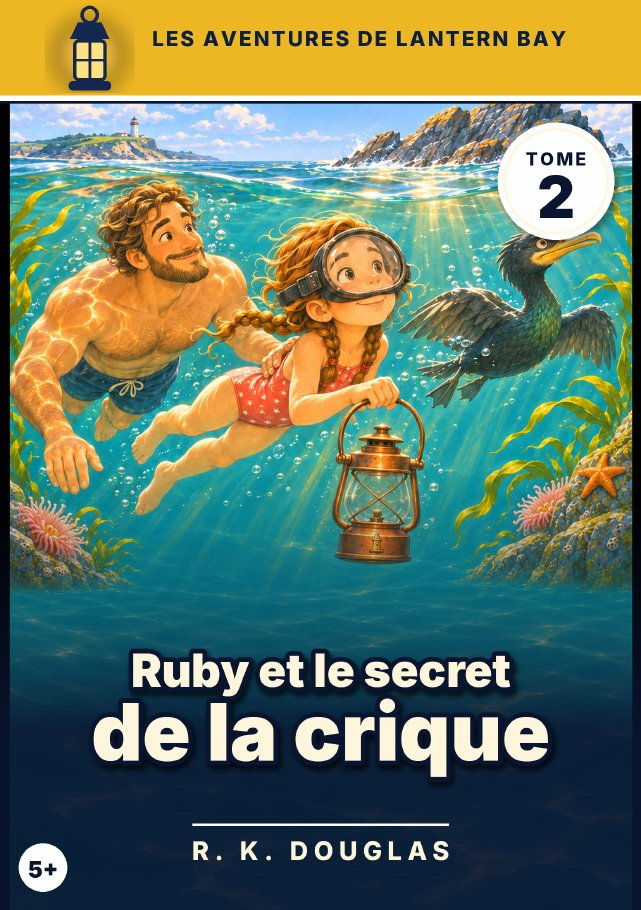
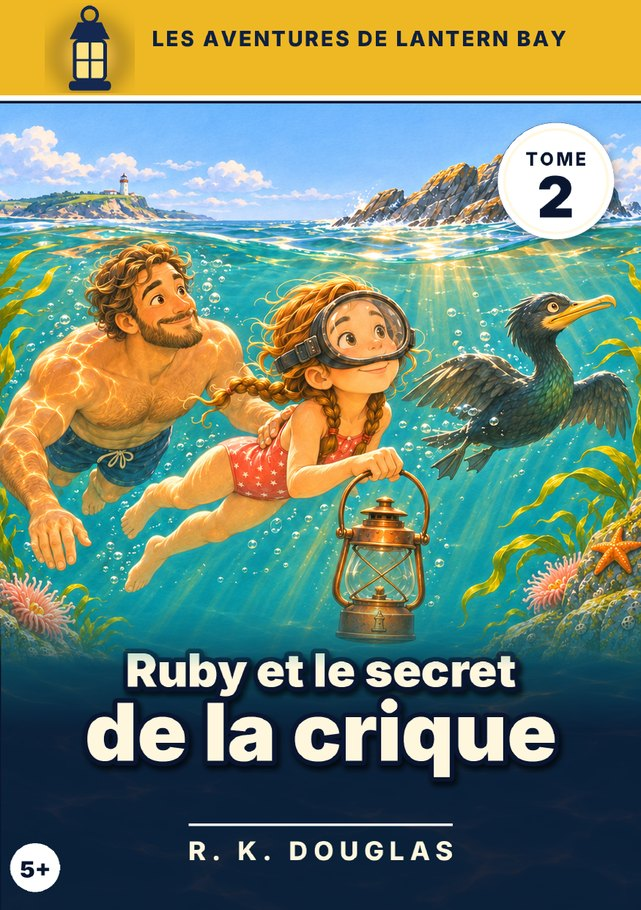
Actualiser le catalogue et quatre couvertures

diff --git a/index.html b/index.html
@@ -306,7 +306,7 @@ footer .wrap{display:flex;flex-wrap:wrap;justify-content:space-between;gap:8px 2
     contes: [
       {id:"contes-1", t:"La graine du dernier arbre", n:"Tome 1", img:"images/contes-t1.jpg",
        r:"À Sèche-Combe, tout est devenu gris. Élio, huit ans, reçoit une graine qui s'allume dans sa main. Pour sauver le village, il devra la porter jusqu'à la Source du monde."},
-      {id:"contes-2", t:"La fille qui cherchait son ombre", n:"Tome 2", soon:true,
+      {id:"contes-2", t:"La fille qui cherchait son ombre", n:"Tome 2", img:"images/contes-t2.jpg", soon:true,
        r:"Un matin, Lison se réveille sans ombre. Pour la retrouver, elle traverse le Pays des Choses Perdues avec une vieille lanterne bougonne."}
     ],
     enquetes: [
@@ -339,7 +339,7 @@ footer .wrap{display:flex;flex-wrap:wrap;justify-content:space-between;gap:8px 2
   const save = () => { try { localStorage.setItem("panier3pas", JSON.stringify(cart)); } catch (e) {} };
 
   const card = b => {
-    const cover = b.soon
+    const cover = b.soon && !b.img
       ? `<div class="soon" aria-hidden="true">À paraître</div>`
       : `<img src="${b.img}" alt="Couverture de « ${b.t} »" loading="lazy" width="641" height="910">`;
     let buy;
